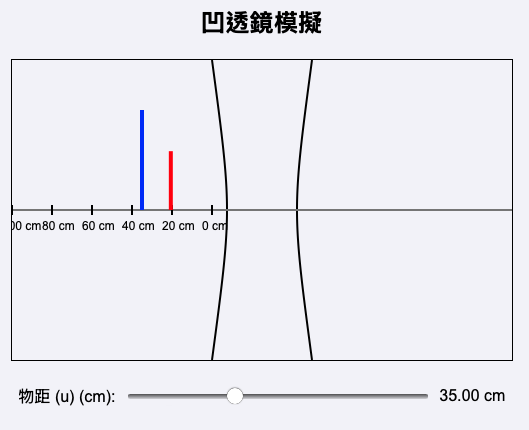
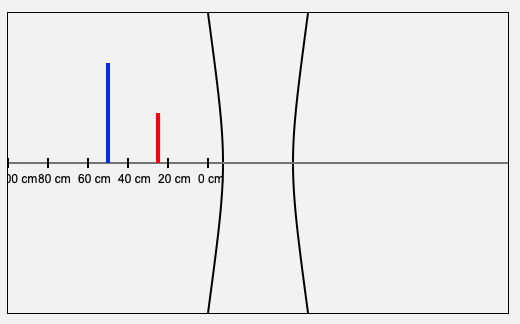
24/10/03 22:23:38 auto push

Changed region(s): [[0.0, 0.0, 0.9846, 0.9877], [0.0308, 0.8951, 0.2154, 0.9568], [0.9538, 0.0309, 0.9846, 0.0617]]

diff --git a/portfolio/Lens/index.html b/portfolio/Lens/index.html
@@ -33,7 +33,7 @@
         <div class="slider-container">
             <label for="distance-slider">物距 (u) (cm): </label>
             <!-- 滑桿最小值設為0，最大值設為透鏡左側到視窗左邊框的距離 -->
-            <input type="range" id="distance-slider" min="0" max="100" value="0" step="1" oninput="updateSimulation()">
+            <input type="range" id="distance-slider" min="0" max="100" value="50" step="1" oninput="updateSimulation()">
             <span id="distance-value">0.00 cm</span>
         </div>
     </div>

diff --git a/portfolio/Lens/style.css b/portfolio/Lens/style.css
@@ -1,7 +1,7 @@
 body {
     font-family: Arial, sans-serif;
     text-align: center;
-    background-color: #f4f4f9;
+    background-color: #f4f4f4;
 }
 
 .back-button {
